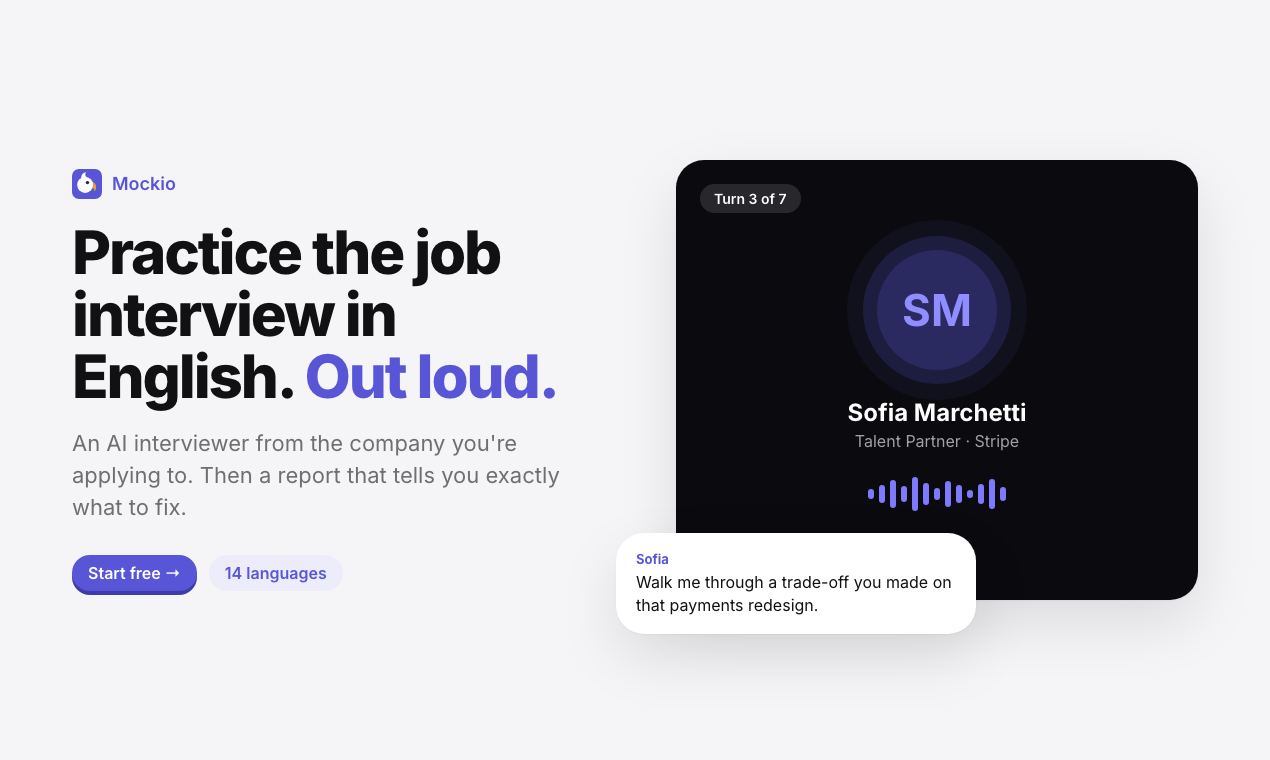
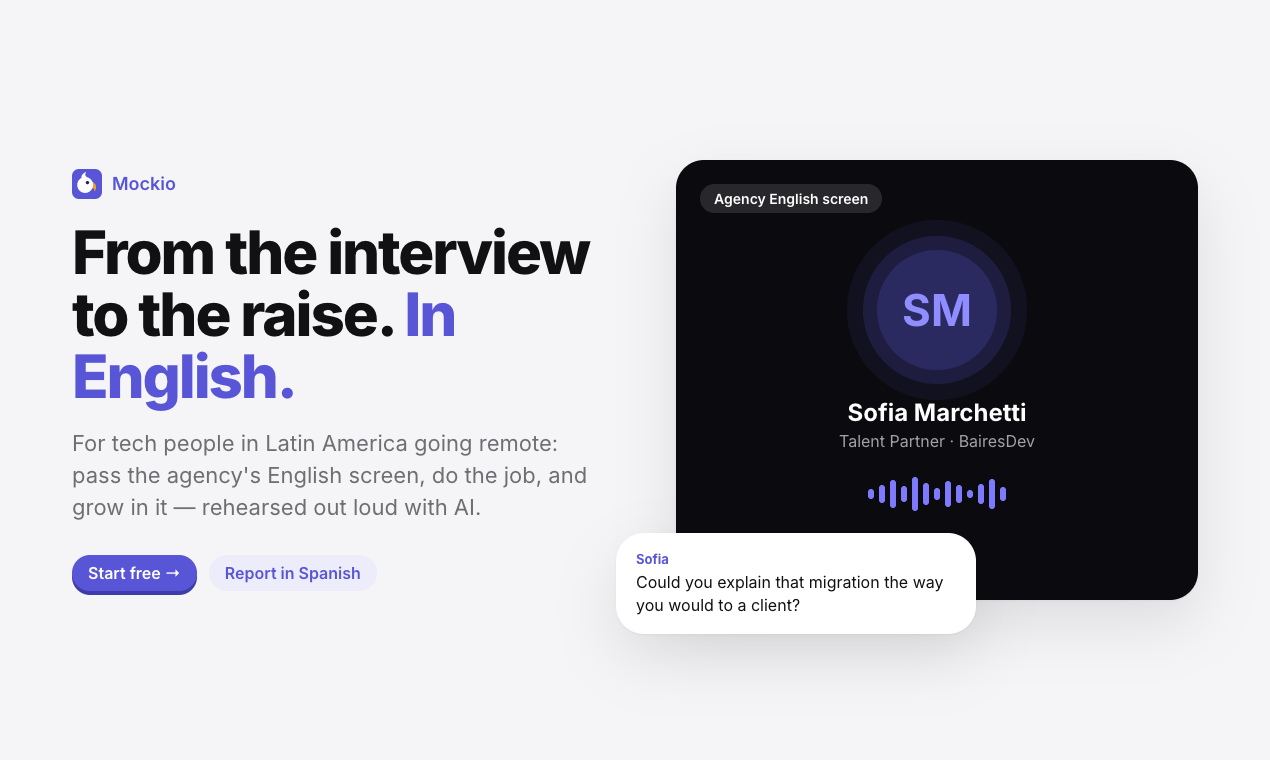
marketing(product-hunt): the kit tells the new story — from the interview to the raise, the agency screen, would you pass

diff --git a/marketing/product-hunt/src/02-report.html b/marketing/product-hunt/src/02-report.html
@@ -3,15 +3,15 @@
   <div style="flex:0.85">
     <span class="eyebrow">After every interview</span>
     <h2 style="margin-top:16px">A report you can act on <span class="indigo">tomorrow.</span></h2>
-    <p class="sub">One mission for next time, what worked, and the exact phrases to say better — in your language.</p>
+    <p class="sub">Would you pass the screen, one mission for next time, and the errors that come from Spanish — explained in Spanish.</p>
   </div>
   <div style="flex:1.15;display:grid;gap:16px">
     <div class="card" style="padding:26px;display:flex;align-items:center;gap:26px">
       <svg width="132" height="132" viewBox="0 0 120 120"><circle cx="60" cy="60" r="52" fill="none" stroke="#EEEEF3" stroke-width="12"/><circle cx="60" cy="60" r="52" fill="none" stroke="#34C759" stroke-width="12" stroke-linecap="round" stroke-dasharray="235 327" transform="rotate(-90 60 60)"/><text x="60" y="70" text-anchor="middle" font-family="Inter" font-weight="800" font-size="30" fill="#111113">72%</text></svg>
       <div>
         <img src="../../../web/public/avatars/level-5.png" width="70" height="70">
-        <p style="font-size:24px;font-weight:700;margin-top:6px">Strong interview. Keep going!</p>
-        <div style="display:flex;gap:8px;margin-top:10px"><span class="pill" style="background:#FFF4CC;color:#A16A00;font-size:14px">✦ +146 XP</span><span class="pill" style="background:#ECECFB;color:#5856D6;font-size:14px">New badge</span></div>
+        <p style="font-size:24px;font-weight:700;margin-top:6px">Strong screen. Keep going!</p>
+        <div style="display:flex;gap:8px;margin-top:10px"><span class="pill" style="background:#F0F0F5;color:#111113;font-size:14px">Your English today: B2</span><span class="pill" style="background:#E3F7E8;color:#1E7B37;font-size:14px">You would likely pass an agency screen</span></div>
       </div>
     </div>
     <div style="background:#5856D6;color:#fff;border-radius:28px;padding:22px 26px;box-shadow:0 24px 60px rgb(88 86 214/.3)">
@@ -19,9 +19,10 @@
       <p style="font-size:21px;font-weight:700;margin-top:6px;line-height:1.3">Name the metric you moved before describing the process.</p>
     </div>
     <div class="card" style="padding:20px 26px">
-      <p style="font-size:14px;font-weight:700;color:#6E6E73">Say it better</p>
-      <p style="font-size:17px;margin-top:8px;color:#8E8E93;text-decoration:line-through">I did the design of the dashboard</p>
-      <p style="font-size:17px;margin-top:4px;font-weight:600">I led the redesign of the payments dashboard</p>
+      <p style="font-size:14px;font-weight:700;color:#6E6E73">From your first language · false friend</p>
+      <p style="font-size:17px;margin-top:8px;color:#8E8E93;text-decoration:line-through">In my actual job I lead the payments API</p>
+      <p style="font-size:17px;margin-top:4px;font-weight:600">In my current role I lead the payments API</p>
+      <p style="font-size:15px;margin-top:6px;color:#6E6E73">“Actual” significa “real”, no “actual”. Usa “current”.</p>
     </div>
   </div>
 </div>

diff --git a/marketing/product-hunt/src/01-hero.html b/marketing/product-hunt/src/01-hero.html
@@ -2,19 +2,19 @@
 <div class="frame">
   <div style="flex:1.05">
     <span class="eyebrow"><img class="mark" src="mark.svg">Mockio</span>
-    <h1>Practice the job interview in English. <span class="indigo">Out loud.</span></h1>
-    <p class="sub">An AI interviewer from the company you're applying to. Then a report that tells you exactly what to fix.</p>
+    <h1>From the interview to the raise. <span class="indigo">In English.</span></h1>
+    <p class="sub">For tech people in Latin America going remote: pass the agency's English screen, do the job, and grow in it — rehearsed out loud with AI.</p>
     <div style="display:flex;gap:12px;margin-top:32px">
       <span class="pill" style="background:#5856D6;color:#fff;box-shadow:0 4px 0 #3E3CAA">Start free →</span>
-      <span class="pill" style="background:#ECECFB;color:#5856D6">14 languages</span>
+      <span class="pill" style="background:#ECECFB;color:#5856D6">Report in Spanish</span>
     </div>
   </div>
   <div style="flex:1;position:relative">
     <div class="card" style="background:#0B0B0F;padding:28px;height:440px;display:flex;flex-direction:column;align-items:center;justify-content:center;color:#fff">
-      <span style="position:absolute;top:24px;left:24px;background:rgb(255 255 255/.12);padding:6px 14px;border-radius:99px;font-size:14px;font-weight:600">Turn 3 of 7</span>
+      <span style="position:absolute;top:24px;left:24px;background:rgb(255 255 255/.12);padding:6px 14px;border-radius:99px;font-size:14px;font-weight:600">Agency English screen</span>
       <div style="width:120px;height:120px;border-radius:50%;background:#2A2960;display:grid;place-items:center;font-size:44px;font-weight:700;color:#8F8DFF;box-shadow:0 0 0 14px rgb(88 86 214/.18),0 0 0 30px rgb(88 86 214/.08)">SM</div>
       <p style="margin-top:28px;font-size:24px;font-weight:700">Sofia Marchetti</p>
-      <p style="font-size:16px;color:#A1A1A6;margin-top:4px">Talent Partner · Stripe</p>
+      <p style="font-size:16px;color:#A1A1A6;margin-top:4px">Talent Partner · BairesDev</p>
       <div style="display:flex;gap:5px;align-items:center;margin-top:26px;height:34px">
         <span style="width:6px;height:10px;border-radius:3px;background:#7D7AFF"></span>
 <span style="width:6px;height:18px;border-radius:3px;background:#7D7AFF"></span>
@@ -33,7 +33,7 @@
     </div>
     <div class="card" style="position:absolute;left:-60px;bottom:-34px;width:360px;padding:18px 20px">
       <p style="font-size:13px;font-weight:700;color:#5856D6">Sofia</p>
-      <p style="font-size:16px;line-height:1.4;margin-top:4px">Walk me through a trade-off you made on that payments redesign.</p>
+      <p style="font-size:16px;line-height:1.4;margin-top:4px">Could you explain that migration the way you would to a client?</p>
     </div>
   </div>
 </div>

diff --git a/marketing/product-hunt/src/04-path.html b/marketing/product-hunt/src/04-path.html
@@ -1,0 +1,22 @@
+<!doctype html><html><head><meta charset="utf-8"><link rel="stylesheet" href="base.css"></head><body>
+<div class="frame" style="flex-direction:column;align-items:stretch;justify-content:center;gap:34px">
+  <div>
+    <span class="eyebrow">The whole path</span>
+    <h2 style="margin-top:12px">Every conversation of a remote job,<br><span class="indigo">rehearsed before it counts.</span></h2>
+  </div>
+  <div style="display:grid;grid-template-columns:repeat(3,1fr);gap:18px">
+    <div class="card" style="padding:26px;display:flex;flex-direction:column;gap:14px">
+      <div style="display:flex;justify-content:space-between;align-items:center"><p style="font-size:23px;font-weight:700">Get hired</p><span class="pill" style="background:#E3F7E8;color:#1E7B37;font-size:14px">Free</span></div>
+      <p style="font-size:17px;color:#3A3A3F;line-height:1.35">· Agency English screen: BairesDev, Turing, Toptal, Globant, Andela</p><p style="font-size:17px;color:#3A3A3F;line-height:1.35">· The interview with the client abroad</p><p style="font-size:17px;color:#3A3A3F;line-height:1.35">· Technical, behavioral and salary rounds</p><p style="font-size:17px;color:#3A3A3F;line-height:1.35">· 2-minute drills: no fillers, explain it simply</p>
+    </div>
+    <div class="card" style="padding:26px;display:flex;flex-direction:column;gap:14px">
+      <div style="display:flex;justify-content:space-between;align-items:center"><p style="font-size:23px;font-weight:700">At work</p><span class="pill" style="background:#FFF4CC;color:#A16A00;font-size:14px">Premium</span></div>
+      <p style="font-size:17px;color:#3A3A3F;line-height:1.35">· Stand-up, code review, on-call</p><p style="font-size:17px;color:#3A3A3F;line-height:1.35">· Estimates and a deadline that slips</p><p style="font-size:17px;color:#3A3A3F;line-height:1.35">· Client calls and demos</p><p style="font-size:17px;color:#3A3A3F;line-height:1.35">· Scenes for dev, QA, design, product, data</p>
+    </div>
+    <div class="card" style="padding:26px;display:flex;flex-direction:column;gap:14px">
+      <div style="display:flex;justify-content:space-between;align-items:center"><p style="font-size:23px;font-weight:700">Grow</p><span class="pill" style="background:#FFF4CC;color:#A16A00;font-size:14px">Premium</span></div>
+      <p style="font-size:17px;color:#3A3A3F;line-height:1.35">· Your performance review</p><p style="font-size:17px;color:#3A3A3F;line-height:1.35">· Asking for a raise, in dollars</p><p style="font-size:17px;color:#3A3A3F;line-height:1.35">· The career conversation with your manager</p>
+    </div>
+  </div>
+</div>
+</body></html>

diff --git a/marketing/product-hunt/src/05-pricing.html b/marketing/product-hunt/src/05-pricing.html
@@ -7,7 +7,7 @@
   </div>
   <div style="flex:1;display:grid;gap:14px">
     <div class="card" style="padding:24px 28px;display:flex;justify-content:space-between;align-items:center">
-      <div><p style="font-size:20px;font-weight:700">Free</p><p style="font-size:15px;color:#6E6E73;margin-top:2px">5 interviews a week, the report, XP and badges</p></div>
+      <div><p style="font-size:20px;font-weight:700">Free</p><p style="font-size:15px;color:#6E6E73;margin-top:2px">Everything to get hired · 5 sessions a week</p></div>
       <p style="font-size:30px;font-weight:800">$0</p>
     </div>
     <div class="card" style="padding:24px 28px;outline:3px solid #5856D6">
@@ -18,7 +18,7 @@
         <div style="background:#F5F5F7;border-radius:16px;padding:12px;text-align:center"><p style="font-size:13px;color:#6E6E73">Spain</p><p style="font-size:20px;font-weight:800">€3.49</p></div>
         <div style="background:#F5F5F7;border-radius:16px;padding:12px;text-align:center"><p style="font-size:13px;color:#6E6E73">USA</p><p style="font-size:20px;font-weight:800">$4.99</p></div>
       </div>
-      <p style="font-size:15px;color:#6E6E73;margin-top:14px">Unlimited interviews · real company targets · your CV and job posting · live coaching</p>
+      <p style="font-size:15px;color:#6E6E73;margin-top:14px">The job and growing in it · unlimited sessions · your CV and job posting</p>
     </div>
   </div>
 </div>

diff --git a/marketing/product-hunt/LAUNCH.md b/marketing/product-hunt/LAUNCH.md
@@ -7,10 +7,10 @@ Everything the Product Hunt form asks for, in the order it asks.
 | File | Use | Size |
 |---|---|---|
 | `thumbnail-240.png` | Thumbnail / logo | 240×240 |
-| `01-hero.png` | Gallery 1 — first impression | 1270×760 |
-| `02-report.png` | Gallery 2 — the report | 1270×760 |
+| `01-hero.png` | Gallery 1 — first impression: the agency screen | 1270×760 |
+| `02-report.png` | Gallery 2 — would you pass, the mission, errors from Spanish | 1270×760 |
 | `03-habit.png` | Gallery 3 — streak, missions, Mocki, badges | 1270×760 |
-| `04-companies.png` | Gallery 4 — company and round | 1270×760 |
+| `04-path.png` | Gallery 4 — the whole path: get hired, at work, grow | 1270×760 |
 | `05-pricing.png` | Gallery 5 — free and regional pricing | 1270×760 |
 
 Sources are in `src/` (HTML). To re-render one after editing:
@@ -29,11 +29,11 @@ Mockio
 
 ## Tagline (60 characters max)
 
-Practice job interviews in English, out loud, with AI
+From the interview to the raise, in English, with AI
 
-*(53 characters)* Alternatives:
-- Rehearse your English job interview before the real one (55)
-- An AI interviewer for the job you're applying to (49)
+*(52 characters)* Alternatives:
+- Pass the agency English screen and land a remote job (52)
+- Rehearse every conversation of a remote job, out loud (54)
 
 ## Link
 
@@ -45,31 +45,31 @@ Productivity · Artificial Intelligence · Education  *(also fits: Languages, Hi
 
 ## Description (260 characters max)
 
-Mockio runs a mock job interview in English by voice, as the company and round you're applying for. Then it tells you exactly what to fix: one mission, better phrasings, your pace. Streaks and missions keep you going. Free to start, priced for your country.
+For tech people in Latin America going remote. Rehearse the agency's English screen by voice, then the job itself and the raise. Every report says if you'd pass and names the errors that come from Spanish. Free to get hired, priced for your country.
 
-*(257 characters)*
+*(250 characters)*
 
 ## Maker's first comment
 
 > Hi Product Hunt 👋 I'm Jean, the maker of Mockio.
 >
-> I built it for one moment: the first interview you do in a language that isn't yours. You know the answer — it just doesn't come out the way it does in your head. The only fix is saying it out loud, many times, before it counts.
+> I built it for a moment I know well: a developer in Lima, Bogotá or São Paulo on the 15-minute English call with BairesDev, Turing or Toptal that decides whether they ever reach the technical round. You know the answer — it just doesn't come out the way it does in your head. And if you pass, the stand-ups, the code reviews and one day the raise are in English too.
 >
 > **How it works**
-> 1. Pick the role, the round (recruiter screen, behavioral, technical, system design) and, on Premium, the company or your own job posting.
-> 2. An AI interviewer runs the conversation by voice and pushes back like a real one would — if you dodge a question, it asks again.
-> 3. You get a report in your own language: one mission for next time, what worked, and the exact sentences to say better.
+> 1. **Get hired (free):** the agency's English screen, the interview with the client abroad, and the technical, behavioral and salary rounds — plus 2-minute drills (no fillers, explain it simply, your win with a number).
+> 2. **At work and grow (Premium):** stand-up, code review, on-call, estimates, a slipping deadline, then your performance review and asking for a raise.
+> 3. **The report, in your language:** an estimated CEFR level and whether you'd pass a B2 screen, one mission for next time, and the errors that come from Spanish or Portuguese — “in my actual job” → “in my current role” — explained.
 >
 > **Why it's a habit, not a one-off:** a daily goal, a streak that forgives one bad day a week, weekly missions, 14 badges and Mocki — a parrot that grows up as you practice (parrots learn to talk by repeating out loud).
 >
 > **Pricing:** free to start (5 interviews a week). Premium is priced per country — S/ 9.90 in Peru, US$4.99 in the US, US$1.99 in the most affordable regions — and charged in your currency. The app speaks 14 languages.
 >
-> I'd love your honest feedback, especially from anyone who has interviewed in a second language. What would have helped you most before that first call?
+> I'd love your honest feedback, especially from anyone who has gone through an agency's English screen. What tripped you up on that first call?
 
 ## Launch-day posts
 
 **X / LinkedIn**
-> Your first job interview in English shouldn't be the real one. Mockio is live on Product Hunt today: an AI interviewer that runs the round by voice, as the company you're applying to, then tells you exactly what to fix. 🦜 [link]
+> Your agency English screen shouldn't be the first time you say it out loud. Mockio is live on Product Hunt: rehearse the screen, the job and the raise by voice, and find out if you'd pass. Built for LatAm tech going remote. 🦜 [link]
 
 ## Checklist
 
